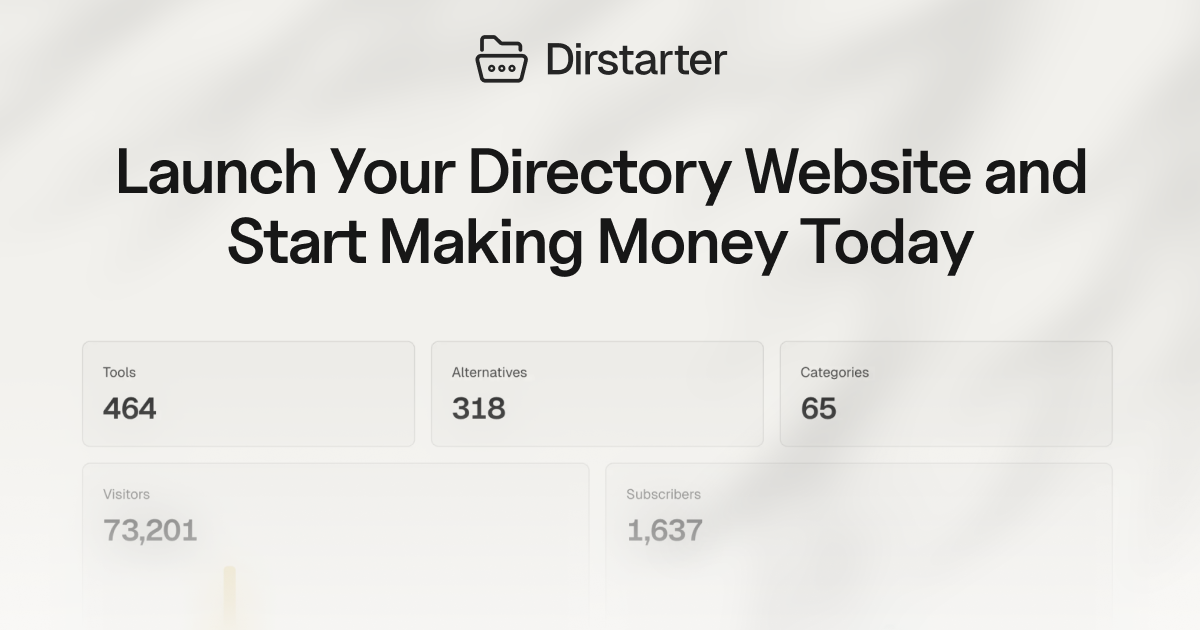
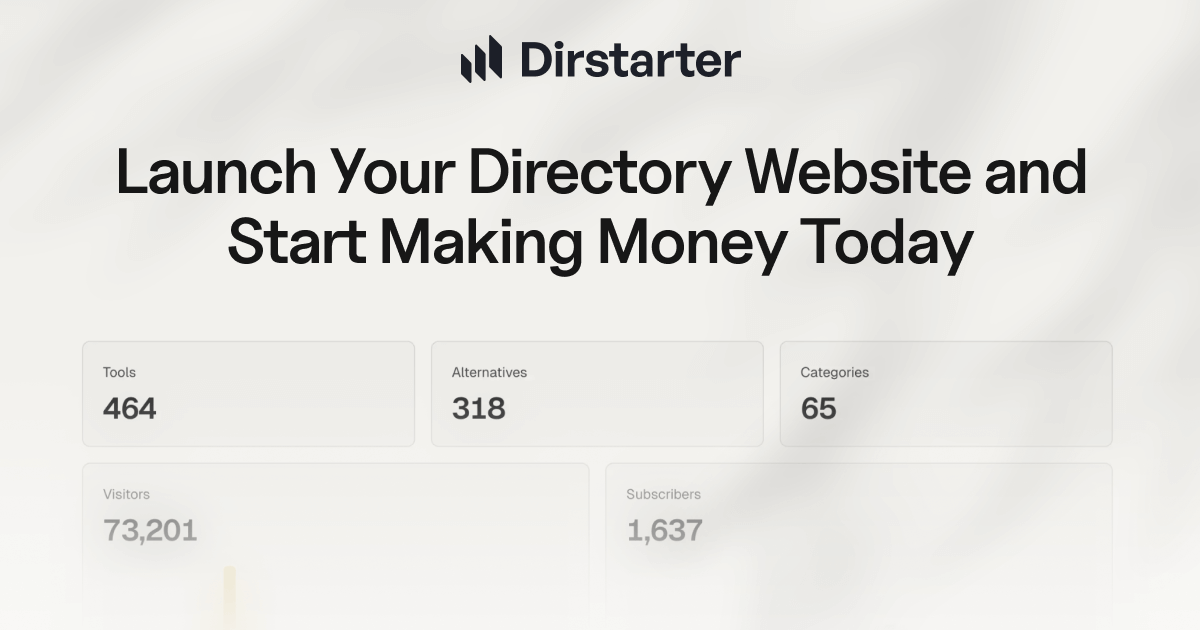
update static assets with the new symbol

Changed region(s): [[0.37, 0.0603, 0.6167, 0.1508]]

diff --git a/components/web/ui/logo-symbol.tsx b/components/web/ui/logo-symbol.tsx
@@ -5,18 +5,15 @@ export const LogoSymbol = ({ className, ...props }: ComponentProps<"svg">) => {
   return (
     <svg
       xmlns="http://www.w3.org/2000/svg"
-      viewBox="0 0 199 180"
-      width="199"
-      height="180"
+      viewBox="0 0 216 251"
       role="img"
       aria-label="Logo"
+      fill="currentColor"
       className={cx("size-5", className)}
       {...props}
     >
-      <path
-        fill="currentColor"
-        d="M32.806 56.27c0 3.92-3.164 7.092-7.075 7.092-3.912 0-7.085-3.18-7.085-7.093V19.164A18.347 18.347 0 0 1 24.003 6.22 18.256 18.256 0 0 1 36.917.857H68.41a18.412 18.412 0 0 1 12.623 5.028L99.81 24.059a3.999 3.999 0 0 0 2.799 1.124h56.257a19.185 19.185 0 0 1 13.558 5.64 19.283 19.283 0 0 1 5.626 13.591V56.27a7.105 7.105 0 0 1-2.074 5.019 7.069 7.069 0 0 1-10.012 0 7.105 7.105 0 0 1-2.074-5.019V44.422c0-2.73-2.3-5.036-5.024-5.036H102.6c-4.75 0-9.235-1.824-12.64-5.12L71.274 16.175a4.186 4.186 0 0 0-2.865-1.132H36.917a4.12 4.12 0 0 0-4.11 4.12V56.27Zm38.918 60.243a13.573 13.573 0 0 0-9.61-3.99 13.574 13.574 0 0 0-9.61 3.99 13.642 13.642 0 0 0-3.981 9.634c0 3.613 1.432 7.079 3.98 9.634a13.574 13.574 0 0 0 9.61 3.99c3.605 0 7.062-1.435 9.611-3.99a13.642 13.642 0 0 0 3.98-9.634c0-3.613-1.431-7.079-3.98-9.634Zm-12.814 6.423a4.524 4.524 0 0 1 3.204-1.331c1.2 0 2.352.487 3.2 1.338a4.543 4.543 0 0 1 0 6.416 4.52 4.52 0 0 1-6.403-.001 4.548 4.548 0 0 1 0-6.422Zm51.315-6.423a13.575 13.575 0 0 0-9.61-3.99 13.574 13.574 0 0 0-9.61 3.99 13.642 13.642 0 0 0-3.98 9.634c0 3.613 1.431 7.079 3.98 9.634a13.574 13.574 0 0 0 9.61 3.99c3.604 0 7.061-1.435 9.61-3.99a13.642 13.642 0 0 0 3.981-9.634c0-3.613-1.432-7.079-3.981-9.634Zm-12.813 6.423a4.524 4.524 0 0 1 3.203-1.331c1.2 0 2.352.487 3.2 1.338a4.542 4.542 0 0 1 0 6.416 4.518 4.518 0 0 1-6.403-.001 4.548 4.548 0 0 1 0-6.422Zm51.314-6.423a13.573 13.573 0 0 0-9.61-3.99 13.575 13.575 0 0 0-9.61 3.99 13.642 13.642 0 0 0-3.981 9.634c0 3.613 1.432 7.079 3.981 9.634a13.575 13.575 0 0 0 9.61 3.99c3.605 0 7.061-1.435 9.61-3.99a13.642 13.642 0 0 0 3.981-9.634c0-3.613-1.432-7.079-3.981-9.634Zm-12.813 6.423a4.523 4.523 0 0 1 3.203-1.331 4.546 4.546 0 0 1 3.201 7.754 4.522 4.522 0 0 1-6.404-.001 4.546 4.546 0 0 1 0-6.422Zm-110.95 52.116a21.87 21.87 0 0 1-7.562-12.511l-.008-.009L1.439 98.095a21.897 21.897 0 0 1 4.402-18.432 21.589 21.589 0 0 1 16.825-8h154.702a21.618 21.618 0 0 1 9.314 2.09 21.67 21.67 0 0 1 7.512 5.902 21.756 21.756 0 0 1 4.468 18.14l-16.087 65.037c-1.976 9.824-10.937 17.15-21.235 17.15H38.703a21.777 21.777 0 0 1-13.74-4.93ZM19.42 86.579a7.545 7.545 0 0 0-2.617 2.059 7.59 7.59 0 0 0-1.553 6.343l15.962 64.438c.772 3.813 3.895 6.377 7.49 6.377h122.646a7.61 7.61 0 0 0 4.788-1.724 7.636 7.636 0 0 0 2.637-4.362l16.086-65.037c.391-1.956-.174-4.254-1.627-6.035a7.52 7.52 0 0 0-5.864-2.79H22.666a7.525 7.525 0 0 0-3.246.73Z"
-      />
+      <path d="M0 105v93c0 3.18.29 6.35 2.53 8.6l42.25 42.24C48.56 252.62 55 250.34 55 245v-93c0-3.19-1.05-6.36-3.31-8.62l-42.6-42.6C5.28 96.97-.02 99.64 0 105ZM74 56v132c0 3.18.79 6.14 3.03 8.38l42.25 42.24c3.77 3.78 10.72.73 10.72-4.62V103c0-3.18-1.55-6.5-3.8-8.76L83.56 51.62C79.8 47.84 74 50.66 74 56ZM148 6v155c0 3.18.84 6.6 3.08 8.85l54.99 54.98c3.78 3.78 9.93 1.02 9.93-4.33v-155c0-3.18-.76-6.1-3.01-8.36L157.62 1.77C153.84-2 148 .66 148 6Z" />
+      <path d="M74 56v132c0 3.18.79 6.14 3.03 8.38l42.25 42.24c3.77 3.78 10.72.73 10.72-4.62V103c0-3.18-1.55-6.5-3.8-8.76L83.56 51.62C79.8 47.84 74 50.66 74 56Z" />
     </svg>
   )
 }

diff --git a/components/web/user-menu.tsx b/components/web/user-menu.tsx
@@ -41,8 +41,11 @@ const UserMenu = async () => {
 
       <DropdownMenuContent side="bottom" align="end">
         <DropdownMenuLabel className="truncate font-normal leading-relaxed">
-          <div className="text-foreground">{session.user.name}</div>
-          {session.user.email}
+          {session.user.name}
+
+          {session.user.name !== session.user.email && (
+            <div className="text-muted-foreground">{session.user.email}</div>
+          )}
         </DropdownMenuLabel>
 
         <DropdownMenuSeparator />

diff --git a/components/web/ads/ad-card.tsx b/components/web/ads/ad-card.tsx
@@ -61,7 +61,7 @@ const AdCard = async ({ className, type, ...props }: AdCardProps) => {
         </Button>
 
         {isDefault && (
-          <LogoSymbol className="absolute -bottom-2/5 -right-1/4 -z-10 size-64 opacity-[3.5%] rotate-[30deg] pointer-events-none transition group-hover/button:rotate-[45deg]" />
+          <LogoSymbol className="absolute -bottom-2/5 -right-1/4 -z-10 size-64 opacity-[3.5%] rotate-12 pointer-events-none transition group-hover/button:rotate-[17deg]" />
         )}
       </ExternalLink>
     </Card>
